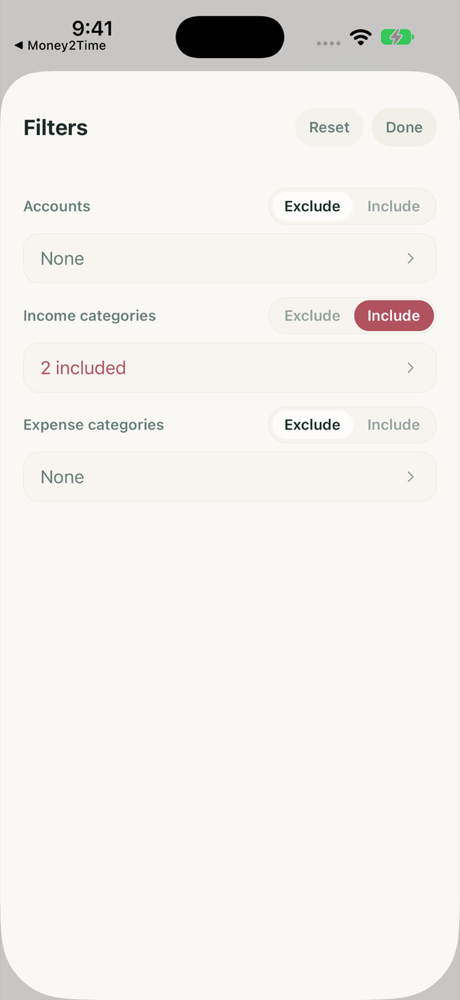
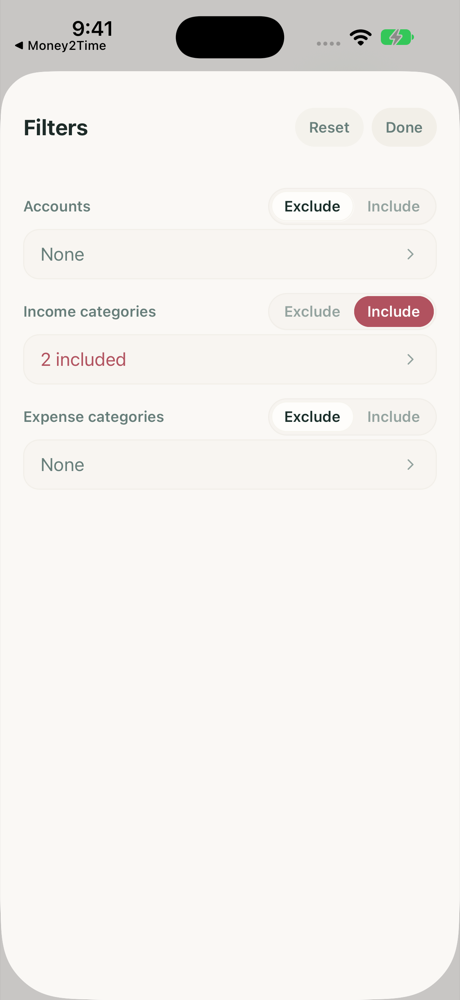
Tighten the gap between a filter's title and its card

diff --git a/components/ui/SelectionFilterField.tsx b/components/ui/SelectionFilterField.tsx
@@ -53,7 +53,7 @@ export function SelectionFilterField({
         : emptyLabel;
 
   return (
-    <View className="gap-2">
+    <View className="gap-1">
       <View className="flex-row items-center justify-between gap-3">
         <Text variant="caption" tone="muted" className="flex-1" numberOfLines={1}>
           {label}
